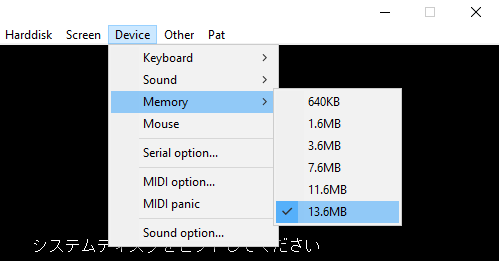
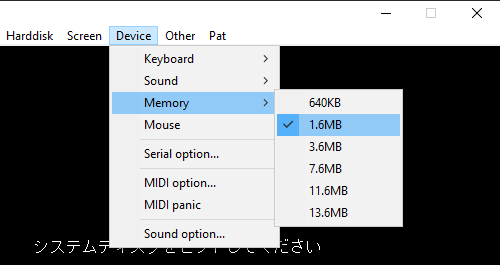
[FAQ] PC-98 guide accuracy improvements

diff --git a/css/faq.css b/css/faq.css
@@ -69,6 +69,14 @@ ol {
 .contents ul {
     padding-left: 20%;
 }
+.recommended {
+    color: orangered;
+    font-size: 16px;
+    line-height: 14px;
+}
+.small_screen {
+    display: none !important;
+}
 .sign {
     font-weight: 800;
     font-size: 18px;
@@ -77,6 +85,10 @@ ol {
 .flat {
     margin-top: 2px;
     margin-bottom: 2px;
+}
+.wide-bottom {
+    margin-top: 2px;
+    margin-bottom: 15px;
 }
 .dual_images {
     overflow: hidden;
@@ -195,15 +207,21 @@ ol {
         flex-wrap: wrap;
     }
     #emus th, #emus td {
-        display: flex;
         flex-basis: 100%;
         height: 120px;
     }
-    #emu_names td {
-        height: 48px;
+    #emus th {
+        height: 16px;
+        padding-bottom: 8px;
     }
     .dual_left, .dual_right {
         margin: 0;
+    }
+    .small_screen {
+        display: flex !important;
+    }
+    .recommended:not(.small_screen) {
+        display: none !important;
     }
 }
 @media only screen and (max-width: 2000px) {
@@ -256,6 +274,10 @@ ol {
     }
     .sign {
         font-size: 15px;
+        line-height: 11px;
+    }
+    .recommended {
+        font-size: 13px;
         line-height: 11px;
     }
     .dual_left, .dual_right {

diff --git a/php/subpages/faq/pc98.php b/php/subpages/faq/pc98.php
@@ -1,7 +1,7 @@
 <h2 id='pc98'>Running PC-98 games</h2>
 <p>The PC-98 Touhou games (Touhou 1 to Touhou 5) require the use of an emulator to play. These games were developed for the old Japanese NEC-PC9801 computers.</p>
 <p>There are four emulators in use, with each one having its ups and downs. All of them run on Windows. See below for a quick summary.</p>
-<p>Click an emulator icon to download it, already configured for Touhou on Windows.</p>
+<p>Click an emulator icon to download its latest version. For downloading Neko Project 21, look for the line that says <span class='code'>通常版です</span>.</p>
 
 <h2>Contents</h2>
 <div class='contents'>
@@ -12,33 +12,59 @@
     <p><a href='#autofire'>Autofire</a></p>
     <p><a href='#anex'>Setup guides</a></p>
     <ul>
-        <li><a href='#anex'>Anex86</a></li>
-        <li><a href='#t98'>T98-Next</a></li>
         <li><a href='#neko'>Neko Project 21</a></li>
         <li><a href='#dosbox'>DOSBox-X</a></li>
+        <li><a href='#anex'>Anex86</a></li>
+        <li><a href='#t98'>T98-Next</a></li>
     </ul>
 </div>
 
 <h3 id='files'>Summary</h3>
+<p class='flat'><strong>TL;DR:</strong> In general, Neko Project 21 and DOSBox-X are recommended for playing Touhou.</p>
+<p class='wide-bottom'>If your system cannot run them very well, Anex86 can work instead. T98-Next is a last resort option.</p>
 <table id='emus' class='noborders'>
     <thead>
         <tr>
-            <td><a href='https://maribelhearn.com/mirror/Anex86.zip'><img src='/assets/games/faq/pc98/Anex86.ico' alt='Anex86 icon' class='emu'></a></td>
-            <td><a href='https://maribelhearn.com/mirror/T98-Next.zip'><img src='/assets/games/faq/pc98/Next.ico' alt='T98-Next icon' class='emu t98next'></a></td>
-            <td><a href='https://github.com/spaztron64/th98tuc_site/raw/main/packages/2022_04_12/np21_nogame.zip'><img src='/assets/games/faq/pc98/Neko.ico' alt='Neko Project 21 icon' class='emu'></a></td>
-            <td><a href='https://github.com/spaztron64/th98tuc_site/raw/main/packages/2022_04_12/dosboxx_nogame.zip'><img src='/assets/games/faq/pc98/Dosbox.ico' alt='DOSBox icon' class='emu'></a></td>
+            <th class='small_screen'></th>
+            <th class='recommended'><em>Recommended!</em></th>
+            <th class='small_screen'></th>
+            <th class='recommended'><em>Recommended!</em></th>
+            <th></th>
+            <th></th>
         </tr>
     </thead>
     <tbody>
+        <tr>
+            <th class='small_screen'></th>
+            <td><a href='https://simk98.github.io/np21w/download.html' target='_blank'><img src='/assets/games/faq/pc98/Neko.ico' alt='Neko Project 21 icon' class='emu'></a></td>
+            <th class='small_screen'></th>
+            <td><a href='https://dosbox-x.com/' target='_blank'><img src='/assets/games/faq/pc98/Dosbox.ico' alt='DOSBox icon' class='emu'></a></td>
+            <td><a href='https://maribelhearn.com/mirror/Anex86.zip'><img src='/assets/games/faq/pc98/Anex86.ico' alt='Anex86 icon' class='emu'></a></td>
+            <td><a href='https://maribelhearn.com/mirror/T98-Next.zip'><img src='/assets/games/faq/pc98/Next.ico' alt='T98-Next icon' class='emu t98next'></a></td>
+        </tr>
         <tr id='emu_names'>
+            <th class='recommended small_screen'><em>Recommended!</em></th>
+            <td>Neko Project 21</td>
+            <th class='recommended small_screen'><em>Recommended!</em></th>
+            <td>DOSBox-X</td>
             <td>Anex86</td>
             <td>T98-Next</td>
-            <td>Neko Project 21</td>
-            <td>DOSBox-X</td>
         </tr>
         <tr>
+            <th class='small_screen'></th>
             <td><ul>
-                <li><span class='sign green'>+</span> Very low system requirements</li>
+                <li><span class='sign green'>+</span> Infinite savestate slots</li>
+                <li><span class='sign green'>+</span> Very accurate</li>
+                <li><span class='sign red'>−</span> Autofire scripts may have issues</li>
+            </ul></td>
+            <th class='small_screen'></th>
+            <td><ul>
+                <li><span class='sign green'>+</span> Supports Mac and Linux</li>
+                <li><span class='sign green'>+</span> Possible to open games from desktop</li>
+                <li><span class='sign red'>−</span> Savestates have issues</li>
+            </ul></td>
+            <td><ul>
+                <li><span class='sign green'>+</span> Frameskips for running on old systems</li>
                 <li><span class='sign green'>+</span> Savestates with thumbnails</li>
                 <li><span class='sign red'>−</span> Only supports 8 savestates</li>
                 <li><span class='sign red'>−</span> Least accurate sound</li>
@@ -46,34 +72,18 @@
             <td><ul>
                 <li><span class='sign green'>+</span> Savestates with thumbnails<br> and timestamps</li>
                 <li><span class='sign red'>−</span> Only supports 4 savestates</li>
-                <li><span class='sign red'>−</span> High system requirements</li>
-            </ul></td>
-            <td><ul>
-                <li><span class='sign green'>+</span> Infinite savestate slots</li>
-                <li><span class='sign green'>+</span> Very accurate</li>
-                <li><span class='sign red'>−</span> Autofire scripts may have issues</li>
-                <li><span class='sign red'>−</span> High system requirements</li>
-            </ul></td>
-            <td><ul>
-                <li><span class='sign green'>+</span> Supports Mac and Linux</li>
-                <li><span class='sign green'>+</span> Low system requirements</li>
-                <li><span class='sign green'>+</span> Possible to open games from desktop</li>
-                <li><span class='sign red'>−</span> Savestates have issues</li>
-                <li><span class='sign red'>−</span> Maybe less stable than other emulators</li>
+                <li><span class='sign red'>−</span> Known to produce inaccurate behaviour</li>
             </ul></td>
         </tr>
     </tbody>
 </table>
 <div id='emus_text'>
-    <p><em>The pre-configured Neko Project 21 and DOSBox-X downloads are courtesy of <a href='https://spaztron64.github.io/th98tuc_site/' target='_blank'>Spaztron64</a></em></p>
-    <p class='flat'>See the <a href='#anex'>setup guides</a> below for how to open a game and use savestates in each emulator.</p>
-    <p class='flat'>Each setup guide will also explain how to set up each emulator yourself, should you want to do this.</p>
-    <p class='wide-top'>Note that none of the emulators have accurate slowdown; the slowdown will not match real hardware.</p>
+    <p>See the setup guides below for how to set up, open games and use savestates.</p>
 </div>
 
 <h3 id='mac_linux'>Mac and Linux</h3>
-<p>As shown in the summary above, DOSBox-X is the only emulator that supports Mac and Linux. Alternatively, <a href='https://www.retroarch.com/' target='_blank'>RetroArch</a>
-can run Neko Project; see the next section for how to do this.</p>
+<p>As shown in the summary above, DOSBox-X is the only emulator that supports Mac and Linux; therefore, it is the recommended emulator.
+Alternatively, <a href='https://www.retroarch.com/' target='_blank'>RetroArch</a> can run Neko Project; see the next section for how to do this.</p>
 <p class='flat'>On Mac, you can download the emulator from <a href='https://dosbox-x.com/' target='_blank'>the official DOSBox-X website</a>.</p>
 <p class='flat'>For Linux, you can install the <span class='code'>dosbox-x</span> package, or install the emulator through the game manager <a href='https://lutris.net/' target='_blank'>Lutris</a>.</p>
 
@@ -131,10 +141,46 @@ The following autofire scripts allow you to play more comfortably for your hands
 <p><a href='https://maribelhearn.com/mirror/SoEWofire.ahk'>SoEWofire.ahk</a></p>
 <p>You need to have <a href='https://www.autohotkey.com/' target='_blank'>AutoHotkey</a> installed to use these scripts.</p>
 
+<h3 id='neko'>Neko Project 21</h3>
+<p><em>This guide is courtesy of <a href='https://nc-roadgeek.neocities.org/mima/pc98-neko' target='_blank'>Feeva</a></em></p>
+<img src='/assets/games/faq/pc98/neko_open.png' alt='Neko Project 21 main screen'>
+<p>To load a game, open the Harddisk tab and click Open under IDE #0. Choose your <span class='code'>.hdi</span> file.</p>
+<p>For savestates, open the <span class='code'>np21.ini</span> file and add this line: <span class='code'>STATSAVE=true</span>. This will add the Stat tab to the emulator window. This tab is used for savestates.
+Ope the Stat tab and click "Title" to change your current savestate collection. Any savestate you make will have the title in its name. This allows you to make essentially infinite savestates. To load a savestate from a different collection,
+simply change the title back to that collection's name.</p>
+<img src='/assets/games/faq/pc98/neko_config1.png' alt='Neko Project 21 config screen'>
+<p>Open the Emulate tab and click Configure. Adjust the settings so that it looks like the screenshot.</p>
+<p>Open the Device tab, then Memory, and set it to 1.6 MB.</p>
+<div id='neko_config' class='dual_images'>
+    <figure class='dual_left'>
+        <img src='/assets/games/faq/pc98/neko_config2.png' alt='Neko Project 21 memory options'>
+    </figure>
+    <figure class='dual_right'>
+        <img src='/assets/games/faq/pc98/neko_config3.png' alt='Neko Project 21 screen options'>
+    </figure>
+</div>
+<p>Open the Screen tab and click Screen Option. Enable Skipline Revisions and set the ratio to the maximum value of 255. Click OK and restart the emulator, holding the End key <em>immediately</em> following the restart.
+You should see a screen like the screenshot below.</p>
+<img src='/assets/games/faq/pc98/neko_config4.png' alt='Neko Project 21 boot config screen'>
+<p>Go to the second option and press Enter. Scroll down using the arrow keys until you reach the GDCクロック option. There, press the Right arrow key and press Enter to set it to 2.5 MHz.
+Then, go to 終了 and hit Enter to save the setting. The emulator is now fully configured for Touhou.</p>
+<img src='/assets/games/faq/pc98/neko_config5.png' alt='Neko Project 21 boot config screen'>
+
+<h3 id='dosbox'>DOSBox-X</h3>
+<p>Refer to the guide on <a href='https://dosbox-x.com/wiki/Guide%3APC%E2%80%9098-emulation-in-DOSBox%E2%80%90X' target='_blank'>the official DOSBox-X website</a> for how to set it up for PC-98 games.
+This guide includes Touhou as an example.</p>
+<p>For savestates, open the Capture tab and click Save state and Load state respectively. Under "Select save slot" you can find a total of 100 save slots; click Previous page and Next page for navigation.
+There are currently various issues with savestates in this emulator, such as sound issues and broken graphics. Timing your savestates when there is no music playing may help prevent this.</p>
+<p>If you want desktop shortcuts for your games, you can make shortcuts to the following:</p>
+<p><span class='code'>&lt;path_to_dosbox&gt; -conf &lt;path_to_config_file&gt;</span></p>
+<p>This will launch DOSBox-X with that particular config file. Each game should have its own config file. On Linux, the game manager <a href='https://lutris.net/' target='_blank'>Lutris</a> supports DOSBox-X,
+so it is also possible to make shortcuts through there.</p>
+
 <h3 id='anex'>Anex86</h3>
 <img src='/assets/games/faq/pc98/anex86.png' alt='Anex86 main screen'>
-<p>To load a game, click the three dots "..." next to HDD1 and click your desired <span class='code'>.hdi</span> file. Click the Start button to launch it. Before getting started, click Config to improve the sound quality,
-as it is not great by default.</p>
+<p>To load a game, click the three dots "..." next to HDD1 and click your desired <span class='code'>.hdi</span> file. Click the Start button to launch it.</p>
+<p><em>The Anex86 download provided on this page is already configured for Touhou. If you obtained it elsewhere, follow the steps below.</em></p>
+<p>Before getting started, click Config to improve the sound quality, as it is not great by default.</p>
 <div class='dual_images'>
     <figure class='dual_left'>
         <img src='/assets/games/faq/pc98/anex86_sound.png' class='eosd_files' alt='Anex86 sound config screen'>
@@ -169,38 +215,4 @@ To load a savestate, press the same key combinations, but without the game windo
         <td>Toggle fullscreen</td>
     </tr>
 </table>
-<h3 id='neko'>Neko Project 21</h3>
-<p><em>This guide is courtesy of <a href='https://nc-roadgeek.neocities.org/mima/pc98-neko' target='_blank'>Feeva</a></em></p>
-<img src='/assets/games/faq/pc98/neko_open.png' alt='Neko Project 21 main screen'>
-<p>To load a game, open the Harddisk tab and click Open under IDE #0. Choose your <span class='code'>.hdi</span> file.</p>
-<p>For savestates, open the <span class='code'>np21.ini</span> file and add this line: <span class='code'>STATSAVE=true</span>. This will add the Stat tab to the emulator window. This tab is used for savestates.
-Ope the Stat tab and click "Title" to change your current savestate collection. Any savestate you make will have the title in its name. This allows you to make essentially infinite savestates. To load a savestate from a different collection,
-simply change the title back to that collection's name.</p>
-<img src='/assets/games/faq/pc98/neko_config1.png' alt='Neko Project 21 config screen'>
-<p>Open the Emulate tab and click Configure. Adjust the settings so that it looks like the screenshot.</p>
-<p>Open the Device tab, then Memory, and set it to at least 13.6 MB.</p>
-<div id='neko_config' class='dual_images'>
-    <figure class='dual_left'>
-        <img src='/assets/games/faq/pc98/neko_config2.png' alt='Neko Project 21 memory options'>
-    </figure>
-    <figure class='dual_right'>
-        <img src='/assets/games/faq/pc98/neko_config3.png' alt='Neko Project 21 screen options'>
-    </figure>
-</div>
-<p>Open the Screen tab and click Screen Option. Enable Skipline Revisions and set the ratio to the maximum value of 255. Click OK and restart the emulator, holding the End key <em>immediately</em> following the restart.
-You should see a screen like the screenshot below.</p>
-<img src='/assets/games/faq/pc98/neko_config4.png' alt='Neko Project 21 boot config screen'>
-<p>Go to the second option and press Enter. Scroll down using the arrow keys until you reach the GDCクロック option. There, press the Right arrow key and press Enter to set it to 2.5 MHz.
-Then, go to 終了 and hit Enter to save the setting. The emulator is now fully configured for Touhou.</p>
-<img src='/assets/games/faq/pc98/neko_config5.png' alt='Neko Project 21 boot config screen'>
-
-<h3 id='dosbox'>DOSBox-X</h3>
-<p>Refer to the guide on <a href='https://dosbox-x.com/wiki/Guide%3APC%E2%80%9098-emulation-in-DOSBox%E2%80%90X' target='_blank'>the official DOSBox-X website</a> for how to set it up for PC-98 games.
-This guide includes Touhou as an example.</p>
-<p>For savestates, open the Capture tab and click Save state and Load state respectively. Under "Select save slot" you can find a total of 100 save slots; click Previous page and Next page for navigation.
-There are currently various issues with savestates in this emulator, such as sound issues and broken graphics. Timing your savestates when there is no music playing may help prevent this.</p>
-<p>If you want desktop shortcuts for your games, you can make shortcuts to the following:</p>
-<p><span class='code'>&lt;path_to_dosbox&gt; -conf &lt;path_to_config_file&gt;</span></p>
-<p>This will launch DOSBox-X with that particular config file. Each game should have its own config file. On Linux, the game manager <a href='https://lutris.net/' target='_blank'>Lutris</a> supports DOSBox-X,
-so it is also possible to make shortcuts through there.</p>
 <?php // language detection hack ?>
